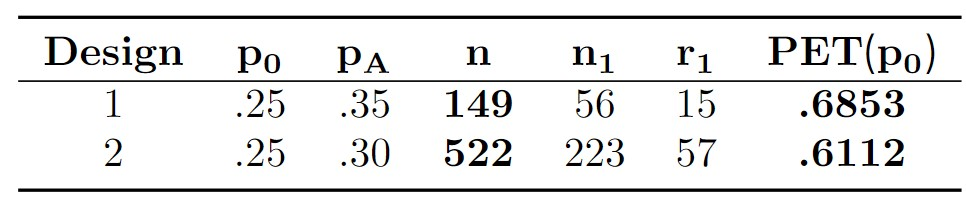
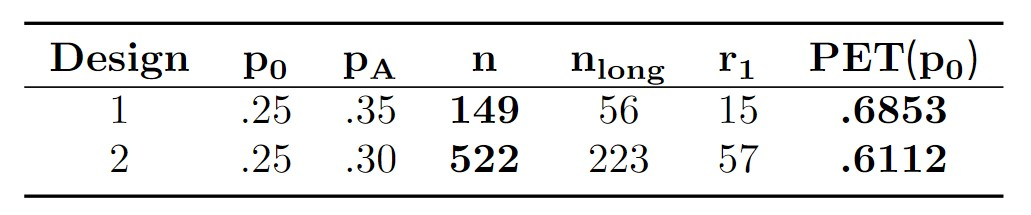
n_long instead of n_q

diff --git a/index.html b/index.html
@@ -1342,7 +1342,7 @@
         <p>\(\alpha = 0.05\), \(power = 0.80\)</p>
         <!-- <img width="800" src="assets/images/optimal_design.jpg"> -->
         <img width="800" src="assets/images/sim_summary.jpg">
-        <p>Design: two different optimal two-stage designs to generate e.g., \(n_1\) and \(r_1\)</p>
+        <p>Design: two different optimal two-stage designs to generate e.g., \(n_{long}\) and \(r_1\)</p>
         <img class="next" width="370" src="assets/images/optimal_design.jpg">
         <!-- <p class="next">\(n_{extra}:\) number of participants with partial information at interim</p> -->
     </section>
